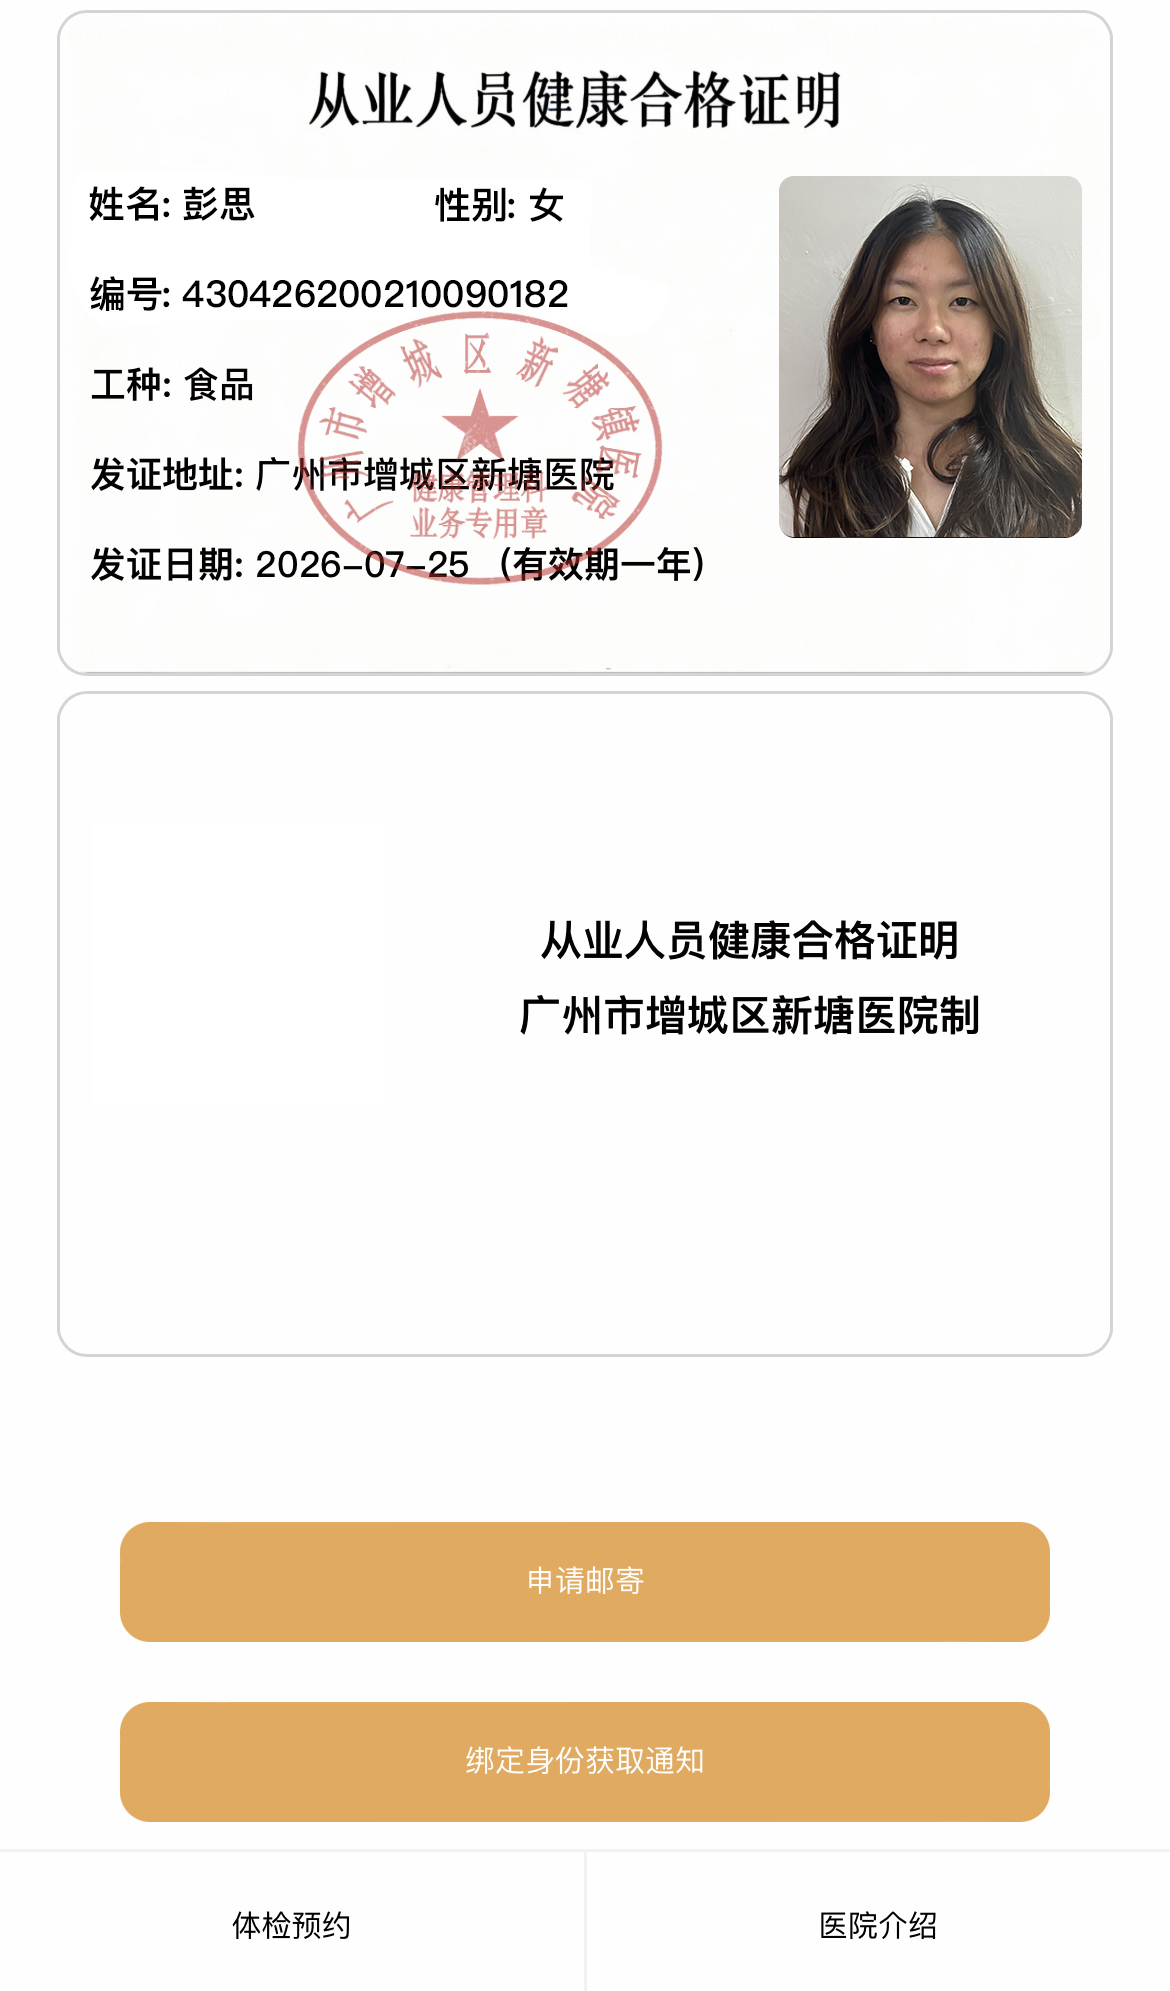
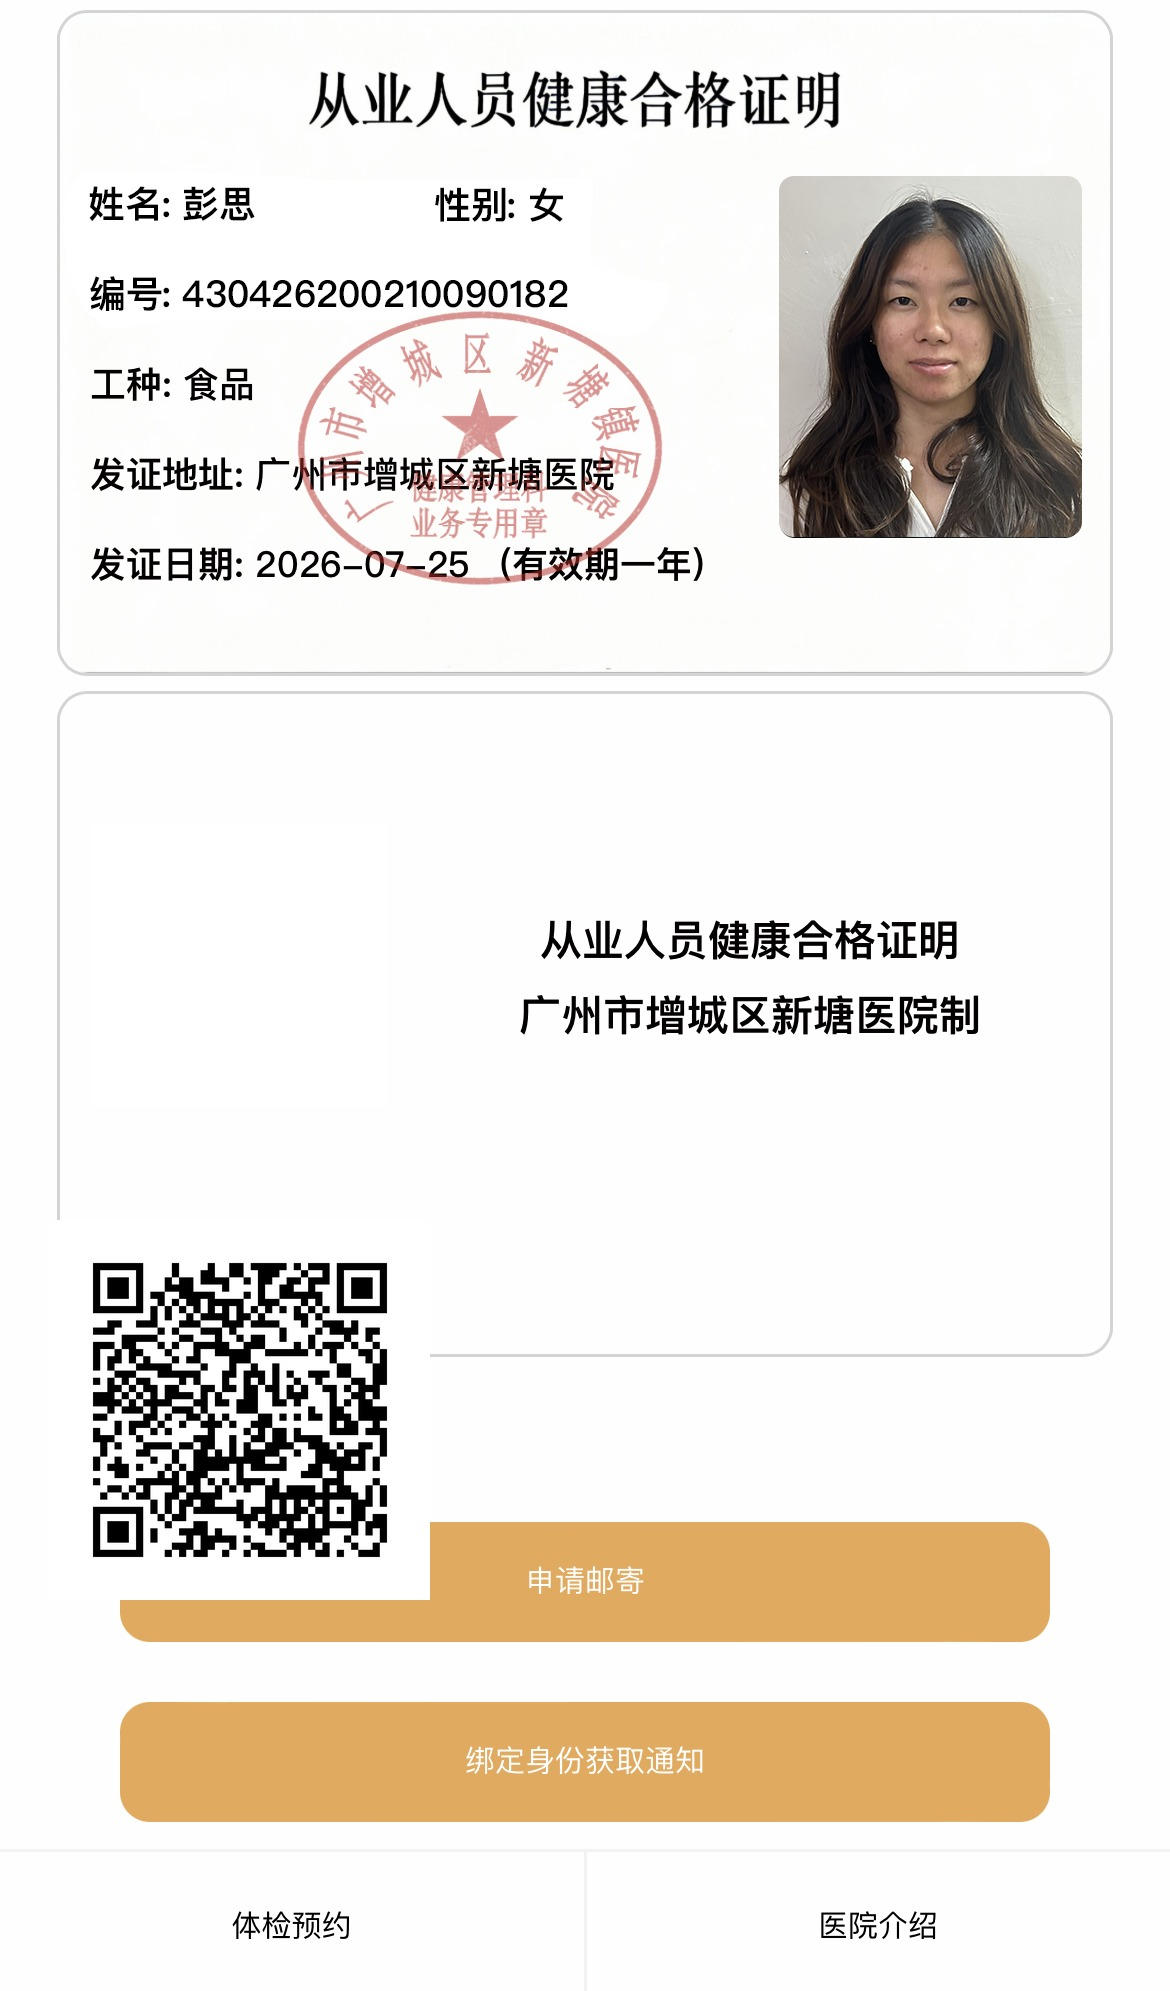
合成二维码到健康证图片 — 单图显示

diff --git a/index.html b/index.html
@@ -437,11 +437,8 @@
 </head>
 <body>
 
-  <section class="cardpic" id="cardpic" style="display:flex; align-items:flex-start; justify-content:center; gap:12px; padding:12px 10px;">
-    <a href="https://2262094142-afk.github.io/health-cert/" target="_blank" rel="noopener" style="flex:0 0 auto; line-height:0;">
-      <img src="qrcode.png" alt="电子健康证查询二维码" title="扫码访问电子健康证页面" style="width:140px; height:140px; display:block; image-rendering:pixelated;" />
-    </a>
-    <img src="IMG_3592 拷贝.jpg" alt="从业人员健康合格证明" style="flex:0 1 auto; width:auto; max-width:200px; height:auto; border-radius:8px; box-shadow:0 2px 8px rgba(0,0,0,0.08); display:block;" />
+  <section class="cardpic" id="cardpic" style="text-align:center; padding: 12px 10px;">
+    <img src="IMG_3592 拷贝.jpg" alt="从业人员健康合格证明" style="width:100%; max-width:350px; border-radius:8px; box-shadow:0 2px 8px rgba(0,0,0,0.08); display:block; margin:0 auto;" />
   </section>
 
   <a href="javascript:void(0)" class="btn-orange" onclick="showToast('功能开发中')">申请邮寄</a>
